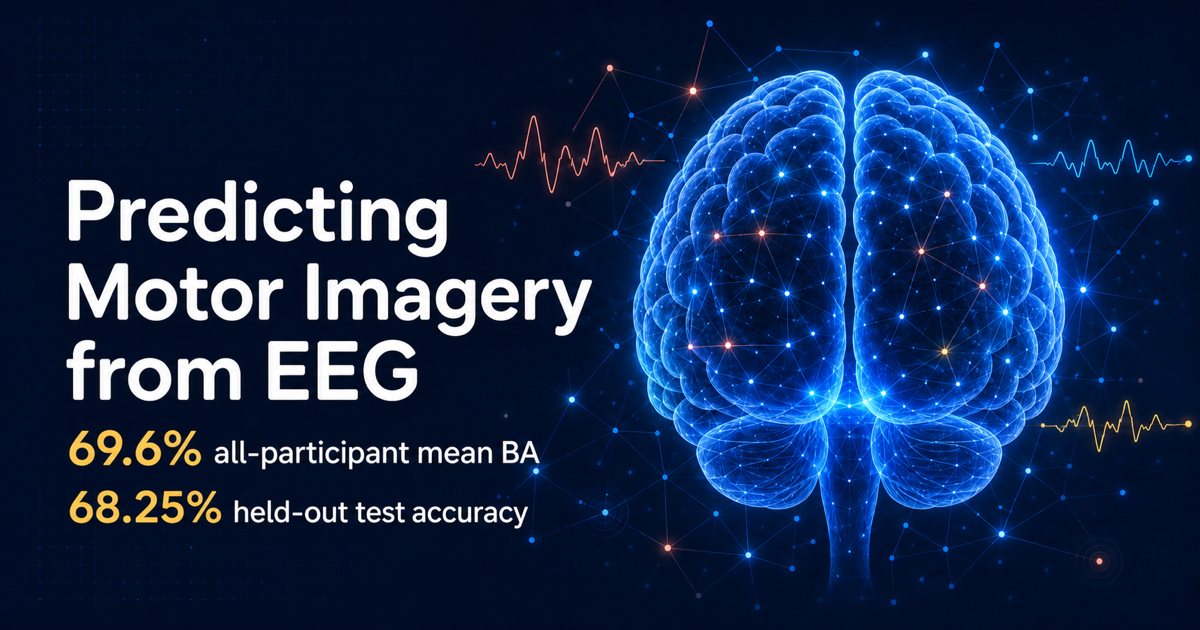
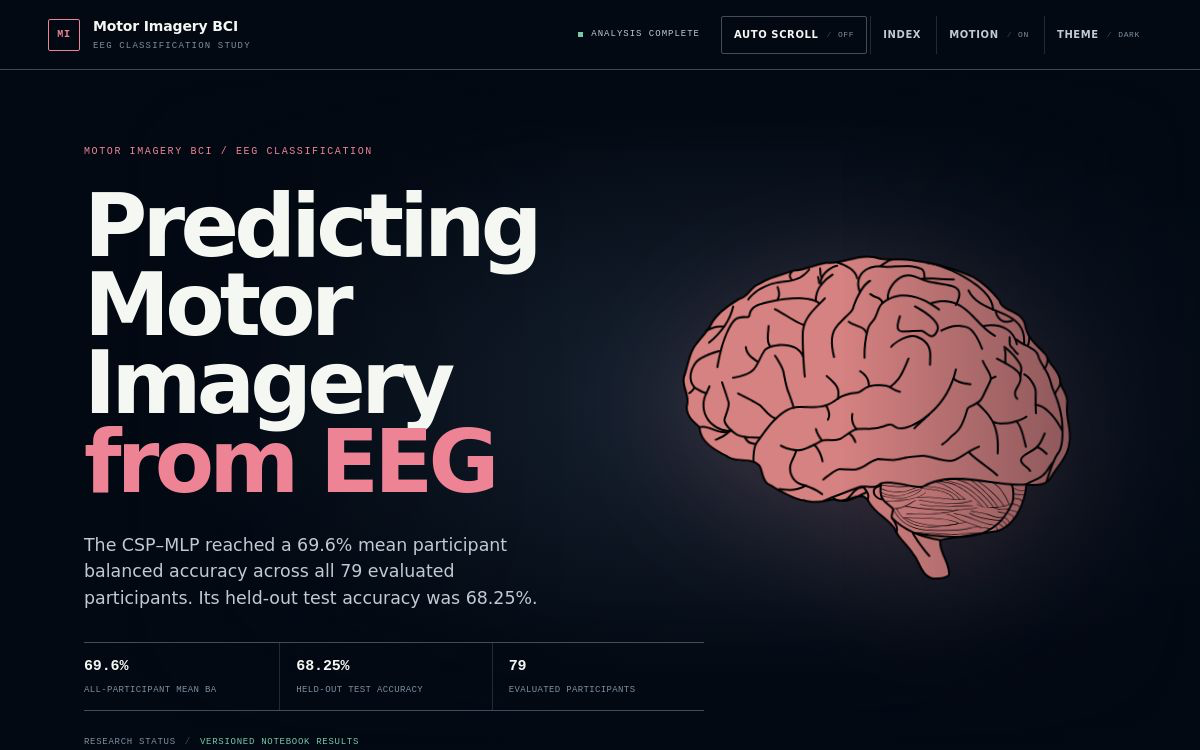
Use actual BCI landing page preview

diff --git a/assets/css/extended/retro-blue.css b/assets/css/extended/retro-blue.css
@@ -2690,7 +2690,7 @@ body.ore-page {
     position: relative;
     display: block;
     overflow: hidden;
-    aspect-ratio: 1200 / 630;
+    aspect-ratio: 1200 / 750;
     background: var(--bci-deep);
     border: 1px solid color-mix(in srgb, var(--bci-cyan) 18%, transparent);
     border-radius: 0 0 12px 12px;

diff --git a/layouts/project/list.html b/layouts/project/list.html
@@ -28,7 +28,7 @@
         <img
           src="{{ $project.image | relURL }}"
           width="1200"
-          height="630"
+          height="750"
           alt="{{ $project.image_alt }}"
           loading="eager"
         >

diff --git a/content/project/_index.md b/content/project/_index.md
@@ -8,7 +8,7 @@ project:
   url: "https://bci-motor-imagery.vercel.app"
   display_url: "bci-motor-imagery.vercel.app"
   image: "project/bci-motor-imagery-preview.png"
-  image_alt: "Preview of the Predicting Motor Imagery from EEG research website, showing its title and verified model results."
+  image_alt: "The landing page of the Predicting Motor Imagery from EEG website, with an editorial title, pink anatomical brain illustration, and verified headline results."
   summary: "Explore how we cleaned motor-imagery EEG recordings, built a CSP–MLP classifier, and evaluated it on held-out participants. The website brings the complete method, results ledger, figures, limitations, and source material together in one interactive research story."
   metrics:
     - value: "69.6%"
